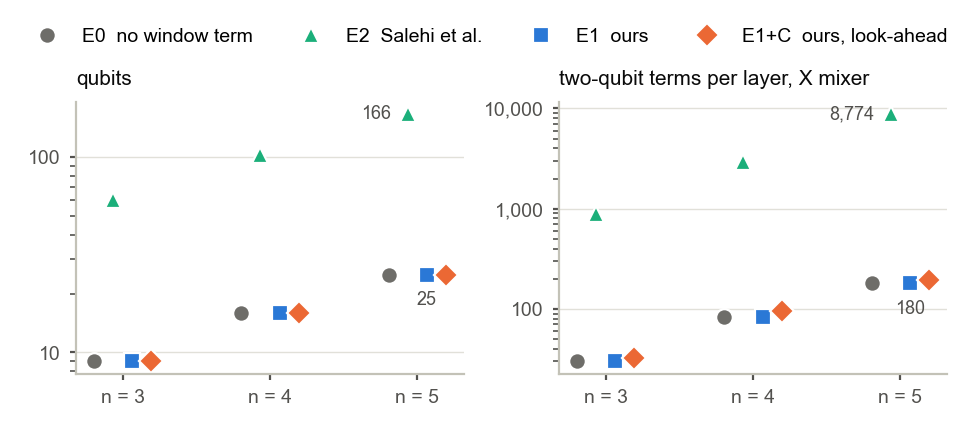
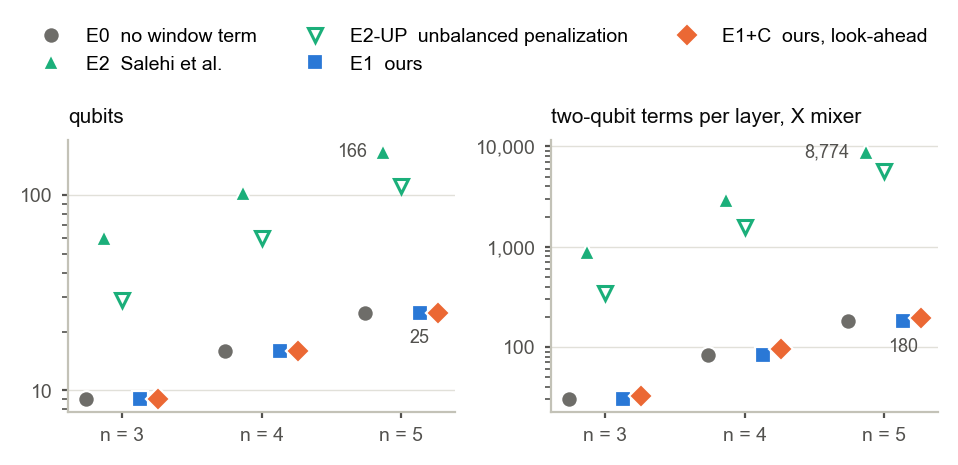
E2-UP in circuit costs and the resources figure; paper outline fixes
- experiments.resource_counts() covers E2-UP, so the app, the figure and
  both summaries share one count; unbalanced_summary drops its own copy
  (its output is byte-identical); results/resources.txt gains the three
  E2-UP rows, the other rows unchanged
- figures/resources: E2-UP in E2's hue with a hollow triangle (a fourth
  palette slot fails the all-pairs colour-blind check on a dot chart)
- paper/main.tex: E1's linear coefficient renamed eta (lambda_1, lambda_2
  are E2-UP's weights); the pruning analysis added to the abstract,
  contributions, setup and conclusion; a bullet on the two different
  ground-state shares (Table 4 vs the QAOA set)
- README.md, related_work.md, ROADMAP.md: E2-UP recorded as done

diff --git a/paper/main.tex b/paper/main.tex
@@ -60,7 +60,8 @@
   \item Guarantee: no extra qubits, no extra two-qubit gates for E1, no feasible route penalised.
   \item Evidence: exact QAOA simulation with the XY mixer (Table~\ref{tab:qaoa}) and simulated
         annealing against the slack-qubit encoding of Salehi et al.\ and a slack-free
-        unbalanced-penalization variant of it (Table~\ref{tab:sa}).
+        unbalanced-penalization variant of it (Table~\ref{tab:sa}); classical pruning against
+        Rezk and Gora's penalty up to $n=9$ (Table~\ref{tab:pruning}).
 \end{itemize}
 \keywords{QAOA \and TSP with time windows \and QUBO \and XY mixer \and Penalty methods}
 \end{abstract}
@@ -84,7 +85,9 @@
           weights tuned the same way on separate instances;
     \item exact QAOA simulation with the XY mixer on the states it reaches, to depth 12, with
           paired statistics over fresh instances;
-    \item a window-tightness study on instances with planted windows.
+    \item a window-tightness study on instances with planted windows;
+    \item a classical pruning analysis against Rezk and Gora's penalty, by full route
+          enumeration up to $n=9$.
   \end{enumerate}
   \item Roadmap of the paper.
 \end{itemize}
@@ -159,10 +162,10 @@
   \LB_{j,1} &= \max\bigl(e_j,\; e_0 + d_{0j}\bigr) \label{eq:lb1}\\
   \LB_{j,k} &= \max\Bigl(e_j,\; \min_{u\neq j,\; \LB_{u,k-1}\le l_u} \bigl(\LB_{u,k-1} + d_{uj}\bigr)\Bigr),
       \qquad k = 2,\dots,n \quad (\min\emptyset = +\infty) \label{eq:lbk}\\
-  \lambda_{j,k} &= \iv{\LB_{j,k} > l_j}\ (k<n), \qquad
-  \lambda_{j,n} = \iv{\LB_{j,n} > l_j \;\lor\; \LB_{j,n} + d_{j0} > l_0} \label{eq:lin}\\
+  \eta_{j,k} &= \iv{\LB_{j,k} > l_j}\ (k<n), \qquad
+  \eta_{j,n} = \iv{\LB_{j,n} > l_j \;\lor\; \LB_{j,n} + d_{j0} > l_0} \label{eq:lin}\\
   \mu_{k,u,j} &= \iv{\max\bigl(e_j,\; \LB_{u,k} + d_{uj}\bigr) > l_j}, \qquad u \neq j,\ k = 1,\dots,n-1 \label{eq:pair}\\
-  H_T^{\mathrm{E1}} &= P\Bigl[\sum_{j,k}\lambda_{j,k}\,x_{j,k}
+  H_T^{\mathrm{E1}} &= P\Bigl[\sum_{j,k}\eta_{j,k}\,x_{j,k}
       + \sum_{k=1}^{n-1}\sum_{u\neq j}\mu_{k,u,j}\,x_{u,k}\,x_{j,k+1}\Bigr] \label{eq:HT1}
 \end{align}
 \begin{itemize}
@@ -181,7 +184,7 @@
 Let $\pi$ be a feasible route and $a_k$ the service start at its $k$-th stop,
 $a_1 = \max(e_{\pi(1)}, e_0 + d_{0\pi(1)})$ and $a_k = \max(e_{\pi(k)}, a_{k-1} + d_{\pi(k-1)\pi(k)})$.
 Then $a_k \ge \LB_{\pi(k),k}$ for $k = 1,\dots,n$, and every coefficient
-$\lambda$, $\mu$ (and $\nu$ of Section~\ref{sec:e1c}) on the variables of $\pi$ is zero.
+$\eta$, $\mu$ (and $\nu$ of Section~\ref{sec:e1c}) on the variables of $\pi$ is zero.
 Hence $H(\pi) = B\cdot\mathrm{cost}(\pi)$.
 \end{lemma}
 \begin{proof}
@@ -311,6 +314,11 @@ Hence $H(\pi) = B\cdot\mathrm{cost}(\pi)$.
         Tune every pair on 10 instances (4 for X at $n=4$) at depths 1--5; evaluate on 50 fresh
         instances (20 for X at $n=4$) at $p \in \{1,2,3,5,8,12\}$. Optimiser: INTERP ladder
         \cite{zhou2020qaoa}, 5 random starts at $p=1$ and 3 more at every later depth, L-BFGS with exact gradients.
+  % source: pruning_check.py and pruning_large.py docstrings
+  \item \textbf{Pruning analysis}: every $n!$ route of each instance scored by each method's penalty
+        terms, no solver. 200 instances per size at $n=3,\dots,7$ with window weight $P=1000$
+        (pruning\_check.py); 100 other instances per size at $n=3,\dots,9$ for E1 and E1+C
+        (pruning\_large.py). Rezk and Gora's tiers re-implemented from their code.
   \item \textbf{Metrics}, feasibility first~\cite{holliday2025advanced,azfar2025quantum}:
         $\Popt$ = probability (QAOA) or fraction of reads (SA) ending in an optimal on-time route;
         $\Pvalid$; $\Pontime$; solved = instances with $\Popt>0$. Encodings compared per instance
@@ -521,6 +529,8 @@ $n$ & Method & Pruned (\%) & False+ (\%) & GS = opt (\%) & New ZZ\\
   \item E1+C buys the rest: ground state optimal in 100.0\% of instances at $n=3$ and 67.0\% at $n=5$,
         for 9\% more ZZ terms.
   \item The share of instances whose ground state is the optimum falls with $n$ for every method (E1: 19.0\% at $n=7$). Say what this means for larger instances.
+  \item Two different ground-state shares appear for E1 at $n=5$: 46.5\% here ($P=1000$, 200 instances)
+        and 64\% in the QAOA set (tuned weights, XY space, 50 other instances). Say which one each claim uses.
   % source: results/pruning_large.txt (100 other instances, seeds 90000..90099; late routes only)
   \item Beyond QAOA sizes the pruning holds: at $n=9$ E1 catches $78.3\pm5.6$\% of late routes
         and E1+C $85.6\pm4.9$\% (mean with 95\% t-interval).
@@ -530,7 +540,8 @@ $n$ & Method & Pruned (\%) & False+ (\%) & GS = opt (\%) & New ZZ\\
 % ---------------------------------------------------------------------------------------------
 \section{Limitations}\label{sec:limits}
 \begin{itemize}
-  \item Small sizes ($n\le5$, at most 25 qubits); exact noiseless simulation, no hardware, no shot noise.
+  \item Small QAOA sizes ($n\le5$, at most 25 qubits; classical pruning to $n=9$); exact noiseless
+        simulation, no hardware, no shot noise.
   \item E1 is sound but not complete: unpenalised infeasible routes compete on cost alone
         (ground state is the optimum in 64\% of XY instances at $n=5$; E1+C 85\%).
   \item E2 and E2-UP are only run with simulated annealing; E2's tuned window term is off at $n=5$.
@@ -550,7 +561,7 @@ $n$ & Method & Pruned (\%) & False+ (\%) & GS = opt (\%) & New ZZ\\
 \begin{itemize}
   \item Restate: two sound operating points, E1 (no gate overhead) and E1+C (some extra ZZ terms).
   \item Main evidence in one line each: annealing (Table~\ref{tab:sa}), QAOA (Table~\ref{tab:qaoa}),
-        cost (Table~\ref{tab:resources}).
+        cost (Table~\ref{tab:resources}), pruning (Table~\ref{tab:pruning}).
   \item Future work: larger $n$ with approximate simulators, hardware runs, permutation-preserving
         mixers~\cite{hadfield2019qaoa},
         multiple vehicles (CVRPTW, as in~\cite{rezk2026gnn}).

diff --git a/figures.py b/figures.py
@@ -6,7 +6,8 @@ Paper figures, drawn from results/ into figures/ (PDF for the paper, PNG to look
   resources     qubits and two-qubit terms per QAOA layer (experiments.resource_counts)
 Colours are the dataviz reference palette's first three slots plus a gray for the E0
 control, validated for colour-blind and normal-vision separation on white; every encoding
-also has its own marker, so the figures survive greyscale print.
+also has its own marker, so the figures survive greyscale print.  E2-UP (resources only) is
+E2's hue with a hollow marker: a fourth slot fails the all-pairs check on a dot chart.
 Run:  python figures.py
 """
 import csv
@@ -22,9 +23,9 @@ from matplotlib.ticker import FuncFormatter
 import grid
 from experiments import ENCODINGS, SIZES, WIDTHS, resource_counts
 
-STYLE = {"E0": ("#6e6d69", "o"), "E2": ("#1baf7a", "^"),
+STYLE = {"E0": ("#6e6d69", "o"), "E2": ("#1baf7a", "^"), "E2-UP": ("#1baf7a", "v"),
          "E1": ("#2a78d6", "s"), "E1+C": ("#eb6834", "D")}          # drawing and legend order
-LABEL = {"E0": "E0  no window term", "E2": "E2  Salehi et al.",
+LABEL = {"E0": "E0  no window term", "E2": "E2  Salehi et al.", "E2-UP": "E2-UP  unbalanced penalization",
          "E1": "E1  ours", "E1+C": "E1+C  ours, look-ahead"}
 INK, INK2, GRID, AXIS = "#0b0b0b", "#52514e", "#e1e0d9", "#c3c2b7"
 
@@ -90,7 +91,7 @@ def sa_tightness():
     x = range(len(WIDTHS))
     fig, axes = plt.subplots(1, 3, figsize=(4.8, 1.9), sharey=True)
     for ax, n in zip(axes, SIZES):
-        for enc in STYLE:
+        for enc in (e for e in STYLE if e in ENCODINGS):          # no E2-UP in the tightness sweep
             series(ax, x, [vals[n, w, enc] for w in WIDTHS], enc)
         ax.set_title(f"n = {n}")
         ax.set_xticks(x, WIDTHS)
@@ -108,9 +109,10 @@ def resources():
     for ax, (k, title) in zip(axes, ((0, "qubits"), (1, "two-qubit terms per layer, X mixer"))):
         for i, enc in enumerate(STYLE):
             color, marker = STYLE[enc]
-            x = np.arange(len(SIZES)) + (i - 1.5) * 0.13         # side by side, so equal counts stay visible
-            ax.plot(x, [counts[n, enc][k] for n in SIZES], ls="none", color=color, marker=marker, ms=6,
-                    label=LABEL[enc])
+            x = np.arange(len(SIZES)) + (i - (len(STYLE) - 1) / 2) * 0.13   # side by side: equal counts stay visible
+            look = dict(mfc="white", mec=color, mew=1.1, ms=5) if enc == "E2-UP" else dict(ms=6)
+            ax.plot(x, [counts[n, enc][k] for n in SIZES], ls="none", color=color, marker=marker,
+                    label=LABEL[enc], **look)
             if enc in ("E1", "E2"):                               # label the n = 5 contrast only
                 v = counts[SIZES[-1], enc][k]
                 ax.annotate(f"{v:,.0f}", (x[-1], v), textcoords="offset points", color=INK2, fontsize=6.5,
@@ -120,7 +122,7 @@ def resources():
         ax.yaxis.set_major_formatter(FuncFormatter(lambda v, _: f"{v:,.0f}"))
         ax.set_xticks(range(len(SIZES)), [f"n = {n}" for n in SIZES])
         ax.set_title(title)
-    fig.legend(*axes[0].get_legend_handles_labels(), loc="upper center", ncol=4, bbox_to_anchor=(0.5, 1.1))
+    fig.legend(*axes[0].get_legend_handles_labels(), loc="upper center", ncol=3, bbox_to_anchor=(0.5, 1.2))
     fig.tight_layout()
     save(fig, "resources")
 

diff --git a/experiments.py b/experiments.py
@@ -207,16 +207,17 @@ def tightness(workers=6):
 
 def resource_counts():
     """(n, encoding) → mean (qubits, two-qubit terms with the X mixer, with the XY mixer) over
-    the 20 evaluation instances, p1 = p2 = 1.  Every nonzero off-diagonal entry of Q is one ZZ
-    rotation, two CNOTs, per layer; with the XY mixer our encodings drop the each-customer-once
-    penalty (zero on the states that mixer reaches), and E2 has no XY count (nan)."""
+    the 20 evaluation instances, p1 = p2 = 1 (E2-UP: λ1 = λ2 = 1).  Every nonzero off-diagonal
+    entry of Q is one ZZ rotation, two CNOTs, per layer; with the XY mixer our encodings drop the
+    each-customer-once penalty (zero on the states that mixer reaches), and E2 and E2-UP have no
+    XY count (nan)."""
     out = {}
     for n in SIZES:
-        for enc in ENCODINGS:
+        for enc in ENCODINGS + ("E2-UP",):
             counts = []
             for s in EVAL_SEEDS:
-                b = builder(enc, make_instance(n, s), 1, 1)
-                xy = np.count_nonzero(np.triu(b.qubo(rows=False)[0], 1)) if enc != "E2" else np.nan
+                b = builder(enc, make_instance(n, s), 1, (1, 1) if enc == "E2-UP" else 1)
+                xy = np.nan if enc.startswith("E2") else np.count_nonzero(np.triu(b.qubo(rows=False)[0], 1))
                 counts.append((b.N, np.count_nonzero(np.triu(b.Q, 1)), xy))
             out[n, enc] = np.mean(counts, axis=0)
     return out
@@ -226,9 +227,9 @@ def resources():
     """What each encoding costs a QAOA circuit (resource_counts), as a table."""
     print(f"{'n':>2} {'enc':5} {'qubits':>7} {'ZZ terms, X mixer':>18} {'ZZ terms, XY mixer':>19}")
     for (n, enc), (qubits, zz_x, zz_xy) in resource_counts().items():
-        xy = f"{zz_xy:19.1f}" if enc != "E2" else f"{'-':>19}"
+        xy = f"{'-':>19}" if np.isnan(zz_xy) else f"{zz_xy:19.1f}"
         print(f"{n:>2} {enc:5} {qubits:7.0f} {zz_x:18.1f} {xy}")
-        if enc == ENCODINGS[-1]:
+        if enc == "E2-UP":
             print()
 
 
@@ -263,9 +264,6 @@ def unbalanced_summary():
     rows = load("results/sa.csv") + load("results/sa_up.csv")
     encodings = ENCODINGS + ("E2-UP",)
     zz = {key: v[1] for key, v in resource_counts().items()}
-    for n in SIZES:
-        zz[n, "E2-UP"] = np.mean([np.count_nonzero(np.triu(builder("E2-UP", make_instance(n, s), 1, (1, 1)).Q, 1))
-                                  for s in EVAL_SEEDS])
     t95 = stats.t.ppf(0.975, len(EVAL_SEEDS) - 1)
     print("E2-UP: E2 (Salehi et al. 2022) with its two time-window slack registers per stop replaced by")
     print("unbalanced penalization (Montañez-Barrera et al. 2024, Eq. 25): h >= 0 costs -l1*h + l2*h^2.")

diff --git a/related_work.md b/related_work.md
@@ -19,7 +19,7 @@ Literature review compiled 2026-10-15. Each entry's bibliographic details were c
 | 11 | **Azfar et al. (2025)**, arXiv [2505.01614](https://arxiv.org/abs/2505.01614) | VRP | No TW (flow and subtour constraints as penalties) | QAOA on IBM Quantum System One | Penalty scaling and coefficient normalisation decide feasibility, so normalise our Hamiltonian. |
 | 12 | **Kalleri Madhu et al. (2025)**, arXiv [2512.17291](https://arxiv.org/abs/2512.17291) | TSP | No TW | Edge-based + subspace-reduction encoding; 4–6 cities; IQM hardware | Competing qubit-reduction approach for TSP, without TW. |
 | 13 | **Glos, Krawiec & Zimborás (2022)**, *npj Quantum Inf.* 8:39, [doi](https://doi.org/10.1038/s41534-022-00546-y) | TSP | No TW | Binary (log) encoding: fewer qubits, deeper circuits | A different trade-off (qubits vs depth); belongs in the discussion. |
-| 14 | **Montañez-Barrera et al. (2024)**, *Quantum Sci. Technol.* 9(2), [arXiv 2211.13914](https://arxiv.org/abs/2211.13914) | TSP, bin packing, knapsack | Slack-free "unbalanced penalization" for inequality constraints | Mainly quantum annealing | The main slack-free alternative. Reviewers may ask for it as a baseline. |
+| 14 | **Montañez-Barrera et al. (2024)**, *Quantum Sci. Technol.* 9(2), [arXiv 2211.13914](https://arxiv.org/abs/2211.13914) | TSP, bin packing, knapsack | Slack-free "unbalanced penalization" for inequality constraints | Mainly quantum annealing | The main slack-free alternative. Reviewers may ask for it as a baseline. Done as E2-UP: `baselines.UnbalancedQUBO`, `results/sa_up_summary.txt`. |
 | 15 | **Ayodele (2022)**, EvoCOP 2022, LNCS, [doi](https://doi.org/10.1007/978-3-031-04148-8_11) | Permutation QUBOs (TSP etc.) | — | Static rules for penalty weights | Use these rules to set the λ weights, so they aren't hand-tuned. |
 
 ## 2. Foundations to cite
@@ -172,7 +172,7 @@ Present LB(j,k) as building on their footnote, not as entirely new.
    Then scale the same protocol up to 50 instances per size and add a window-tightness sweep.
 4. **Metrics put feasibility first**, because #4 and #11 show feasibility is the bottleneck.
 5. **Penalty weights:** set them with Ayodele's static rules (#15) plus Hamiltonian normalisation (#11).
-6. **Optional January baseline:** unbalanced penalization (#14), if time allows.
+6. **Unbalanced-penalization baseline (#14): done (2026-10-18)** as E2-UP, E2 with its window slacks replaced by unbalanced penalties. About half of E2's qubits, P(opt) close to E2's, well below E1 and E1+C (`results/sa_up_summary.txt`).
 7. **Venue:** ICCS fits (#7). Cite #1 precisely and generously.
 8. **First classical result** (`pruning_check.py`; 200 instances per size, Salehi protocol, P = 1000):
    - E1 never penalises a feasible route.

diff --git a/paper/ROADMAP.md b/paper/ROADMAP.md
@@ -12,7 +12,7 @@ This file stays out of the arXiv bundle. Last updated 2026-10-18.
 | 4 | Check ICCS facts, LNCS volumes, INTERP citation, weight grids | the assistant | done |
 | 5 | Write the prose: Method → Setup → Results → Limitations → Related work → Intro → Conclusion → Abstract; Lemma 1 proof; captions | you | **todo** |
 | 6 | Review each section as you finish it: numbers, claims vs data, citations, LNCS format, ≤ 15 pages incl. references | the assistant | waits on 5 |
-| 7 | Optional extras: unbalanced-penalization baseline (E2-UP); P(on time) table and gap-matrix table not decided | separate session, then the assistant typesets | E2-UP done (735b0cc, merged 61c298b): in Method, Tables 1 and 3, setup and limitations. Figure `resources` does not show it yet |
+| 7 | Optional extras: unbalanced-penalization baseline (E2-UP); P(on time) table and gap-matrix table not decided | separate session, then the assistant typesets | E2-UP done (735b0cc, merged 61c298b): in Method, Tables 1 and 3, setup, limitations and the `resources` figure. P(on time) and gap-matrix tables skipped: ICCS allows 15 pages including references |
 | 8 | Public code and data: MIT chosen; `README.md` and `LICENSE` drafted. You: create the GitHub repository, connect Zenodo, put the DOI in the paper. the assistant: the arXiv zip (figures inside, `.bbl` from Overleaf, no outline bullets or TODOs) | the assistant + you | README/LICENSE awaiting your review |
 | 9 | arXiv submission. First submission needs an endorsement: add an institutional email to your arXiv account, or ask an endorser (e.g. your advisor). **Start early.** | you | todo |
 | 10 | ICCS submission on EasyChair: fill in the "relevance to computational science" field; include the AI disclosure | you | by 5 Feb 2027 |

diff --git a/README.md b/README.md
@@ -9,7 +9,7 @@ E1 turns each customer's earliest possible arrival at each tour position into pe
 | Path | What it is |
 |---|---|
 | `qubo.py` | Instances, exact solver, E0 / E1 / E1+C encodings |
-| `baselines.py` | E2 (Salehi et al.) and the simulated annealer |
+| `baselines.py` | E2 (Salehi et al.), E2-UP (E2 with unbalanced penalization instead of slacks) and the simulated annealer |
 | `qaoa.py` | Exact QAOA simulator (X and XY mixers) |
 | `experiments.py`, `grid.py`, `pilot.py` | Annealing comparison, final QAOA grid, QAOA pilots |
 | `pruning_check.py`, `pruning_large.py` | Classical pruning power, including Rezk and Gora's penalty |
